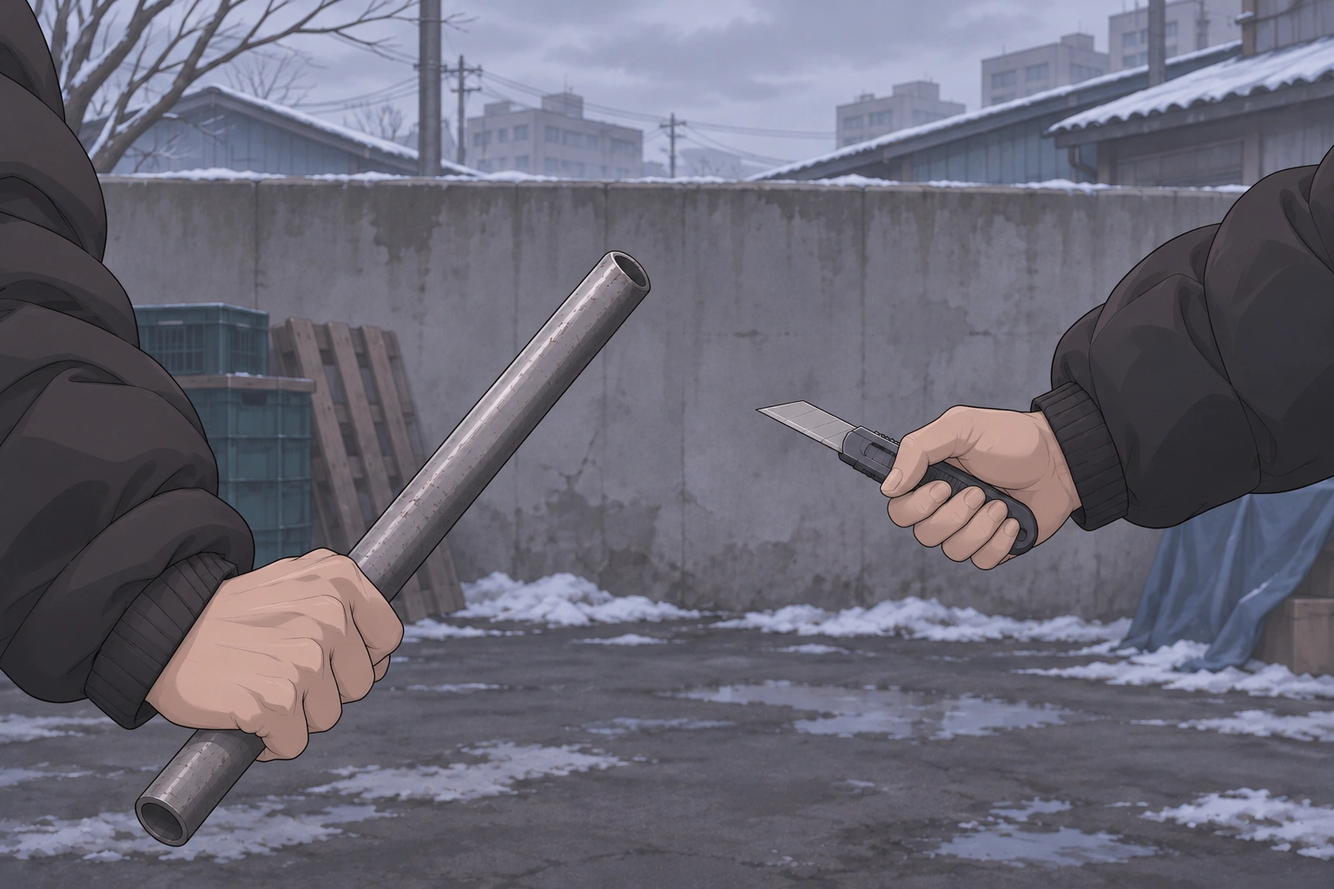
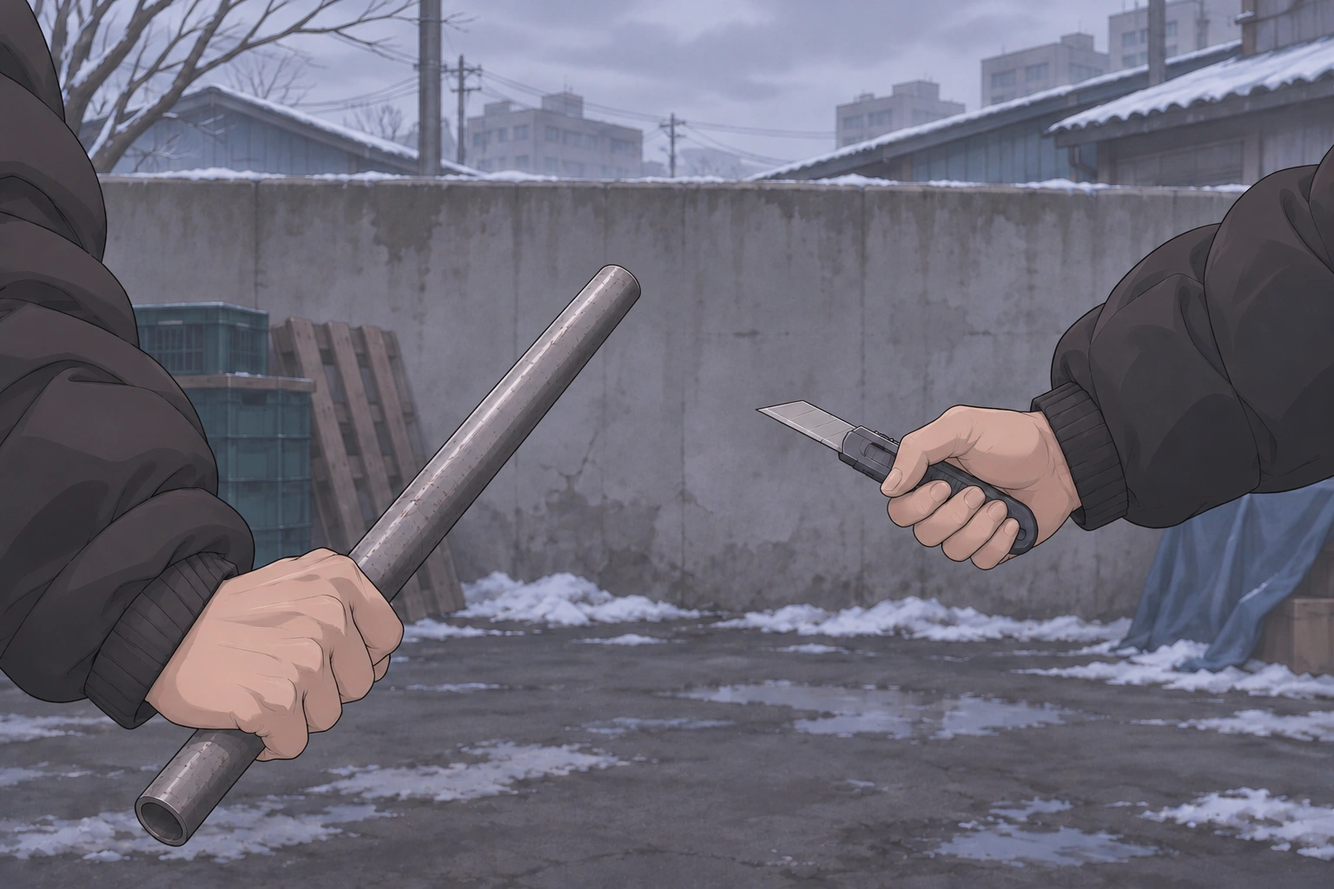
v2.79: [일러스트] 쇠파이프 끝 투시 보정과 이미지 캐시 갱신

Changed region(s): [[0.375, 0.2812, 0.5, 0.4375], [0.3125, 0.4375, 0.375, 0.5312], [0.2812, 0.5312, 0.3125, 0.5938]]

diff --git a/artwork/drafts/2026-11-19/gallery.html b/artwork/drafts/2026-11-19/gallery.html
@@ -1,1 +1,1 @@
-<!doctype html><html lang="ko"><meta charset="utf-8"><meta name="viewport" content="width=device-width"><title>일러스트 검토 후보 128장</title><style>body{background:#101923;color:#eee;font:16px sans-serif;margin:24px}main{display:grid;grid-template-columns:repeat(auto-fit,minmax(280px,1fr));gap:18px}img{width:100%;display:block}article{background:#202d3a;padding:10px}a{color:#aee}p{margin:8px 0}</style><h1>일러스트 검토 후보 128장</h1><p>프롤로그 115장 · 추가 갈래 1장 · 이벤트 12장. 2026-11-19 사용자 지시로 게임에 연결했습니다. 구도·화풍·손가락·모바일 검토 미확인 사항은 검토 기록을 참고하세요.</p><main><article><a href="prologue/ill_1.webp"><img loading="lazy" src="prologue/ill_1.webp"></a><p>ill_1 · 원인 불명</p></article><article><a href="prologue/ill_2.webp"><img loading="lazy" src="prologue/ill_2.webp"></a><p>ill_2 · 7층 격리 병동</p></article><article><a href="prologue/ill_3.webp"><img loading="lazy" src="prologue/ill_3.webp"></a><p>ill_3 · 42도</p></article><article><a href="prologue/ill_4.webp"><img loading="lazy" src="prologue/ill_4.webp"></a><p>ill_4 · 같은 병의 아이</p></article><article><a href="prologue/ill_5.webp"><img loading="lazy" src="prologue/ill_5.webp"></a><p>ill_5 · 퇴원하는 날</p></article><article><a href="prologue/subject_1.webp"><img loading="lazy" src="prologue/subject_1.webp"></a><p>subject_1 · 하얀 방</p></article><article><a href="prologue/subject_2.webp"><img loading="lazy" src="prologue/subject_2.webp"></a><p>subject_2 · 지하 7층</p></article><article><a href="prologue/subject_3.webp"><img loading="lazy" src="prologue/subject_3.webp"></a><p>subject_3 · 13번과의 약속</p></article><article><a href="prologue/subject_8.webp"><img loading="lazy" src="prologue/subject_8.webp"></a><p>subject_8 · 잃어버린 일기장</p></article><article><a href="prologue/student_10.webp"><img loading="lazy" src="prologue/student_10.webp"></a><p>student_10 · 각성 준비반</p></article><article><a href="prologue/idle_1.webp"><img loading="lazy" src="prologue/idle_1.webp"></a><p>idle_1 · 취준 3년 차의 오후</p></article><article><a href="prologue/idle_4.webp"><img loading="lazy" src="prologue/idle_4.webp"></a><p>idle_4 · 퇴사 첫 주</p></article><article><a href="prologue/nap_1.webp"><img loading="lazy" src="prologue/nap_1.webp"></a><p>nap_1 · 낮잠에서 깨어나니</p></article><article><a href="prologue/game_1.webp"><img loading="lazy" src="prologue/game_1.webp"></a><p>game_1 · 부서진 마우스</p></article><article><a href="prologue/game_odd.webp"><img loading="lazy" src="prologue/game_odd.webp"></a><p>game_odd · 그날 이후 이상한 일</p></article><article><a href="prologue/crime_1.webp"><img loading="lazy" src="prologue/crime_1.webp"></a><p>crime_1 · 은행 창구 번호표 47번</p></article><article><a href="prologue/crime_2.webp"><img loading="lazy" src="prologue/crime_2.webp"></a><p>crime_2 · 셔터 안쪽</p></article><article><a href="prologue/crime_3.webp"><img loading="lazy" src="prologue/crime_3.webp"></a><p>crime_3 · 터진 금고</p></article><article><a href="prologue/crime_4.webp"><img loading="lazy" src="prologue/crime_4.webp"></a><p>crime_4 · 진압팀보다 먼저</p></article><article><a href="prologue/dream_4.webp"><img loading="lazy" src="prologue/dream_4.webp"></a><p>dream_4 · 첫 손님</p></article><article><a href="prologue/chaebol_6.webp"><img loading="lazy" src="prologue/chaebol_6.webp"></a><p>chaebol_6 · 재단 봉사</p></article><article><a href="prologue/chaebol_10.webp"><img loading="lazy" src="prologue/chaebol_10.webp"></a><p>chaebol_10 · 창업주의 유언</p></article><article><a href="prologue/orphan_6.webp"><img loading="lazy" src="prologue/orphan_6.webp"></a><p>orphan_6 · 친부모의 소식</p></article><article><a href="prologue/orphan_8.webp"><img loading="lazy" src="prologue/orphan_8.webp"></a><p>orphan_8 · 병원비</p></article><article><a href="prologue/soldier_4.webp"><img loading="lazy" src="prologue/soldier_4.webp"></a><p>soldier_4 · 의무 부사관</p></article><article><a href="prologue/subject_4.webp"><img loading="lazy" src="prologue/subject_4.webp"></a><p>subject_4 · 도와준 연구원</p></article><article><a href="prologue/student_7.webp"><img loading="lazy" src="prologue/student_7.webp"></a><p>student_7 · 간호 실습</p></article><article><a href="prologue/dsleep_2.webp"><img loading="lazy" src="prologue/dsleep_2.webp"></a><p>dsleep_2 · 수면 클리닉</p></article><article><a href="prologue/drug_5.webp"><img loading="lazy" src="prologue/drug_5.webp"></a><p>drug_5 · 블루의 뒤끝</p></article><article><a href="prologue/late_1.webp"><img loading="lazy" src="prologue/late_1.webp"></a><p>late_1 · 국민 에테르 정기 검진</p></article><article><a href="prologue/eve_checkup.webp"><img loading="lazy" src="prologue/eve_checkup.webp"></a><p>eve_checkup · 관리국 의무실</p></article><article><a href="prologue/subject_5.webp"><img loading="lazy" src="prologue/subject_5.webp"></a><p>subject_5 · 위탁 가정</p></article><article><a href="prologue/drug_1.webp"><img loading="lazy" src="prologue/drug_1.webp"></a><p>drug_1 · 파란 캡슐</p></article><article><a href="prologue/friend_1.webp"><img loading="lazy" src="prologue/friend_1.webp"></a><p>friend_1 · 먼저 깨어난 쪽</p></article><article><a href="prologue/idle_7.webp"><img loading="lazy" src="prologue/idle_7.webp"></a><p>idle_7 · 방구석 홈트</p></article><article><a href="prologue/nap_2.webp"><img loading="lazy" src="prologue/nap_2.webp"></a><p>nap_2 · 느긋한 각성자</p></article><article><a href="prologue/nap_odd.webp"><img loading="lazy" src="prologue/nap_odd.webp"></a><p>nap_odd · 그날 이후 이상한 일</p></article><article><a href="prologue/eve_teacher.webp"><img loading="lazy" src="prologue/eve_teacher.webp"></a><p>eve_teacher · 옛 담임의 전화</p></article><article><a href="prologue/late_2.webp"><img loading="lazy" src="prologue/late_2.webp"></a><p>late_2 · 잠재 각성자 판정</p></article><article><a href="prologue/late_5.webp"><img loading="lazy" src="prologue/late_5.webp"></a><p>late_5 · 비고란</p></article><article><a href="prologue/chaebol_5.webp"><img loading="lazy" src="prologue/chaebol_5.webp"></a><p>chaebol_5 · 후계 구도</p></article><article><a href="prologue/friend_5.webp"><img loading="lazy" src="prologue/friend_5.webp"></a><p>friend_5 · 두 사람의 기록</p></article><article><a href="prologue/bloom_2.webp"><img loading="lazy" src="prologue/bloom_2.webp"></a><p>bloom_2 · 늦깎이 등록</p></article><article><a href="prologue/quest_2.webp"><img loading="lazy" src="prologue/quest_2.webp"></a><p>quest_2 · 하루치의 끝</p></article><article><a href="prologue/eve_loan.webp"><img loading="lazy" src="prologue/eve_loan.webp"></a><p>eve_loan · 각성자 대출 창구</p></article><article><a href="prologue/subject_9.webp"><img loading="lazy" src="prologue/subject_9.webp"></a><p>subject_9 · 정기 검진</p></article><article><a href="prologue/student_4.webp"><img loading="lazy" src="prologue/student_4.webp"></a><p>student_4 · 에테르 공학 동아리</p></article><article><a href="prologue/orphan_2.webp"><img loading="lazy" src="prologue/orphan_2.webp"></a><p>orphan_2 · 배달 라이더</p></article><article><a href="prologue/storm_2.webp"><img loading="lazy" src="prologue/storm_2.webp"></a><p>storm_2 · 정전된 도시</p></article><article><a href="prologue/soldier_9.webp"><img loading="lazy" src="prologue/soldier_9.webp"></a><p>soldier_9 · 저격 교관</p></article><article><a href="prologue/wild_1.webp"><img loading="lazy" src="prologue/wild_1.webp"></a><p>wild_1 · 지리산 종주</p></article><article><a href="prologue/wild_4.webp"><img loading="lazy" src="prologue/wild_4.webp"></a><p>wild_4 · 하산</p></article><article><a href="prologue/wild_5.webp"><img loading="lazy" src="prologue/wild_5.webp"></a><p>wild_5 · 닷새 만의 귀환</p></article><article><a href="prologue/idle_14.webp"><img loading="lazy" src="prologue/idle_14.webp"></a><p>idle_14 · 주말 등산</p></article><article><a href="prologue/eve_rooftop.webp"><img loading="lazy" src="prologue/eve_rooftop.webp"></a><p>eve_rooftop · 밤의 뒷산</p></article><article><a href="prologue/late_3.webp"><img loading="lazy" src="prologue/late_3.webp"></a><p>late_3 · 유도 시술실</p></article><article><a href="prologue/idle_2.webp"><img loading="lazy" src="prologue/idle_2.webp"></a><p>idle_2 · 편의점 야간</p></article><article><a href="prologue/cvs_1.webp"><img loading="lazy" src="prologue/cvs_1.webp"></a><p>cvs_1 · 삼각김밥의 다음 날</p></article><article><a href="prologue/cvs_2.webp"><img loading="lazy" src="prologue/cvs_2.webp"></a><p>cvs_2 · 야간 알바 헌터</p></article><article><a href="prologue/student_9.webp"><img loading="lazy" src="prologue/student_9.webp"></a><p>student_9 · 밴드 공연</p></article><article><a href="prologue/friend_2.webp"><img loading="lazy" src="prologue/friend_2.webp"></a><p>friend_2 · 봉쇄선</p></article><article><a href="prologue/dsleep_3.webp"><img loading="lazy" src="prologue/dsleep_3.webp"></a><p>dsleep_3 · 깨어나지 않는 밤</p></article><article><a href="prologue/dream_1.webp"><img loading="lazy" src="prologue/dream_1.webp"></a><p>dream_1 · 같은 꿈</p></article><article><a href="prologue/chaebol_9.webp"><img loading="lazy" src="prologue/chaebol_9.webp"></a><p>chaebol_9 · 압류 딱지</p></article><article><a href="prologue/soldier_6.webp"><img loading="lazy" src="prologue/soldier_6.webp"></a><p>soldier_6 · 경비업체</p></article><article><a href="prologue/soldier_10.webp"><img loading="lazy" src="prologue/soldier_10.webp"></a><p>soldier_10 · 징계</p></article><article><a href="prologue/student_5.webp"><img loading="lazy" src="prologue/student_5.webp"></a><p>student_5 · 복학생</p></article><article><a href="prologue/relic_1.webp"><img loading="lazy" src="prologue/relic_1.webp"></a><p>relic_1 · 벼룩시장</p></article><article><a href="prologue/idle_6.webp"><img loading="lazy" src="prologue/idle_6.webp"></a><p>idle_6 · 치킨집 뒷주방</p></article><article><a href="prologue/eve_dinner.webp"><img loading="lazy" src="prologue/eve_dinner.webp"></a><p>eve_dinner · 등록 전날 저녁</p></article><article><a href="prologue/eve_shop.webp"><img loading="lazy" src="prologue/eve_shop.webp"></a><p>eve_shop · 장비점 대장간 김씨</p></article><article><a href="prologue/eve_line.webp"><img loading="lazy" src="prologue/eve_line.webp"></a><p>eve_line · 봉쇄선 앞</p></article><article><a href="prologue/orphan_7.webp"><img loading="lazy" src="prologue/orphan_7.webp"></a><p>orphan_7 · 태권도장</p></article><article><a href="prologue/late_4.webp"><img loading="lazy" src="prologue/late_4.webp"></a><p>late_4 · 적성 실기</p></article><article><a href="prologue/idle_8.webp"><img loading="lazy" src="prologue/idle_8.webp"></a><p>idle_8 · 서른둘의 동창회</p></article><article><a href="prologue/dream_3.webp"><img loading="lazy" src="prologue/dream_3.webp"></a><p>dream_3 · 굿판</p></article><article><a href="prologue/eve_fortune.webp"><img loading="lazy" src="prologue/eve_fortune.webp"></a><p>eve_fortune · 골목 점집</p></article><article><a href="prologue/dseer_2.webp"><img loading="lazy" src="prologue/dseer_2.webp"></a><p>dseer_2 · 꿈이 먼저 본다</p></article><article><a href="prologue/subject_6.webp"><img loading="lazy" src="prologue/subject_6.webp"></a><p>subject_6 · 감시 요원</p></article><article><a href="prologue/wild_3.webp"><img loading="lazy" src="prologue/wild_3.webp"></a><p>wild_3 · 산신</p></article><article><a href="prologue/tour_4.webp"><img loading="lazy" src="prologue/tour_4.webp"></a><p>tour_4 · 첫 사냥</p></article><article><a href="prologue/tour_5.webp"><img loading="lazy" src="prologue/tour_5.webp"></a><p>tour_5 · 구조 헬기</p></article><article><a href="prologue/nest_3.webp"><img loading="lazy" src="prologue/nest_3.webp"></a><p>nest_3 · 어미</p></article><article><a href="prologue/nest_4.webp"><img loading="lazy" src="prologue/nest_4.webp"></a><p>nest_4 · 짐꾼의 싸움</p></article><article><a href="prologue/nest_5.webp"><img loading="lazy" src="prologue/nest_5.webp"></a><p>nest_5 · 귀환한 짐꾼</p></article><article><a href="prologue/eve_subway.webp"><img loading="lazy" src="prologue/eve_subway.webp"></a><p>eve_subway · 막차</p></article><article><a href="prologue/eve_cat.webp"><img loading="lazy" src="prologue/eve_cat.webp"></a><p>eve_cat · 길고양이 밥 주기</p></article><article><a href="prologue/duel_1.webp"><img loading="lazy" src="prologue/duel_1.webp"></a><p>duel_1 · 보호비</p></article><article><a href="prologue/idle_11.webp"><img loading="lazy" src="prologue/idle_11.webp"></a><p>idle_11 · 장례식장 야간 알바</p></article><article><a href="prologue/idle_13.webp"><img loading="lazy" src="prologue/idle_13.webp"></a><p>idle_13 · 할머니 약초밭</p></article><article><a href="prologue/eve_lastshift.webp"><img loading="lazy" src="prologue/eve_lastshift.webp"></a><p>eve_lastshift · 알바 마지막 날</p></article><article><a href="prologue/eve_run.webp"><img loading="lazy" src="prologue/eve_run.webp"></a><p>eve_run · 강변 새벽 러닝</p></article><article><a href="prologue/eve_secondhand.webp"><img loading="lazy" src="prologue/eve_secondhand.webp"></a><p>eve_secondhand · 중고 거래</p></article><article><a href="prologue/storm_1.webp"><img loading="lazy" src="prologue/storm_1.webp"></a><p>storm_1 · 폭풍 예보</p></article><article><a href="prologue/eve_pcbang.webp"><img loading="lazy" src="prologue/eve_pcbang.webp"></a><p>eve_pcbang · PC방 밤샘</p></article><article><a href="prologue/night_dream.webp"><img loading="lazy" src="prologue/night_dream.webp"></a><p>night_dream · 병실의 밤</p></article><article><a href="prologue/dream_5.webp"><img loading="lazy" src="prologue/dream_5.webp"></a><p>dream_5 · 강 건너의 이름</p></article><article><a href="prologue/relic_3.webp"><img loading="lazy" src="prologue/relic_3.webp"></a><p>relic_3 · 스며들다</p></article><article><a href="prologue/storm_3.webp"><img loading="lazy" src="prologue/storm_3.webp"></a><p>storm_3 · 낙뢰</p></article><article><a href="prologue/crime_5.webp"><img loading="lazy" src="prologue/crime_5.webp"></a><p>crime_5 · 뉴스 속보</p></article><article><a href="prologue/friend_4.webp"><img loading="lazy" src="prologue/friend_4.webp"></a><p>friend_4 · 진압탄</p></article><article><a href="prologue/eve_net.webp"><img loading="lazy" src="prologue/eve_net.webp"></a><p>eve_net · 헌터넷 첫 로그인</p></article><article><a href="prologue/game_2.webp"><img loading="lazy" src="prologue/game_2.webp"></a><p>game_2 · 현실 랭크전</p></article><article><a href="prologue/duel_2.webp"><img loading="lazy" src="prologue/duel_2.webp"></a><p>duel_2 · 공터로 나와</p></article><article><a href="prologue/duel_5.webp"><img loading="lazy" src="prologue/duel_5.webp"></a><p>duel_5 · 공터의 소문</p></article><article><a href="prologue/drug_3.webp"><img loading="lazy" src="prologue/drug_3.webp"></a><p>drug_3 · 깨진 캡슐</p></article><article><a href="prologue/drug_4.webp"><img loading="lazy" src="prologue/drug_4.webp"></a><p>drug_4 · 조직의 문</p></article><article><a href="prologue/bloom_1.webp"><img loading="lazy" src="prologue/bloom_1.webp"></a><p>bloom_1 · 서른둘의 밤 · 귀갓길</p></article><article><a href="prologue/cvs_odd.webp"><img loading="lazy" src="prologue/cvs_odd.webp"></a><p>cvs_odd · 그날 이후 이상한 일 · 편의점</p></article><article><a href="prologue/bloom_odd.webp"><img loading="lazy" src="prologue/bloom_odd.webp"></a><p>bloom_odd · 그날 이후 이상한 일 · 늦깎이</p></article><article><a href="prologue/quest_odd.webp"><img loading="lazy" src="prologue/quest_odd.webp"></a><p>quest_odd · 그날 이후 이상한 일 · 하루치</p></article><article><a href="prologue/relic_5.webp"><img loading="lazy" src="prologue/relic_5.webp"></a><p>relic_5 · 구슬의 유언</p></article><article><a href="prologue/duel_3.webp"><img loading="lazy" src="prologue/duel_3.webp"></a><p>duel_3 · 세 번째 주먹</p></article><article><a href="prologue/duel_4.webp"><img loading="lazy" src="prologue/duel_4.webp"></a><p>duel_4 · 흑사회 셋</p></article><article><a href="prologue/dseer_3.webp"><img loading="lazy" src="prologue/dseer_3.webp"></a><p>dseer_3 · 꿈과 같은 시각</p></article><article><a href="variants/bloom_1__karaoke.webp"><img loading="lazy" src="variants/bloom_1__karaoke.webp"></a><p>bloom_1__karaoke · 서른둘의 밤 · 노래방</p></article><article><a href="events/guild_contract.webp"><img loading="lazy" src="events/guild_contract.webp"></a><p>guild_contract · 소속 가입 계약 확인</p></article><article><a href="events/exam_registration.webp"><img loading="lazy" src="events/exam_registration.webp"></a><p>exam_registration · 헌터 시험 접수</p></article><article><a href="events/gate_briefing.webp"><img loading="lazy" src="events/gate_briefing.webp"></a><p>gate_briefing · 게이트 진입 브리핑</p></article><article><a href="events/city_hospital.webp"><img loading="lazy" src="events/city_hospital.webp"></a><p>city_hospital · 헌터 전문 병원</p></article><article><a href="events/rank_c_scout.webp"><img loading="lazy" src="events/rank_c_scout.webp"></a><p>rank_c_scout · 길드 스카우트</p></article><article><a href="events/reg_busan_market.webp"><img loading="lazy" src="events/reg_busan_market.webp"></a><p>reg_busan_market · 부산 항구 야시장</p></article><article><a href="events/road_merchant.webp"><img loading="lazy" src="events/road_merchant.webp"></a><p>road_merchant · 길가 행상 트럭</p></article><article><a href="events/road_storm.webp"><img loading="lazy" src="events/road_storm.webp"></a><p>road_storm · 다가오는 에테르 폭풍</p></article><article><a href="events/road_camp.webp"><img loading="lazy" src="events/road_camp.webp"></a><p>road_camp · 헌터 야영 모닥불</p></article><article><a href="events/road_wreck.webp"><img loading="lazy" src="events/road_wreck.webp"></a><p>road_wreck · 버려진 협회 장갑차</p></article><article><a href="events/road_checkpoint.webp"><img loading="lazy" src="events/road_checkpoint.webp"></a><p>road_checkpoint · 사설 길목 검문</p></article><article><a href="events/road_signal.webp"><img loading="lazy" src="events/road_signal.webp"></a><p>road_signal · 잡음 속 구조 신호</p></article></main></html>
+<!doctype html><html lang="ko"><meta charset="utf-8"><meta name="viewport" content="width=device-width"><title>일러스트 검토 후보 128장</title><style>body{background:#101923;color:#eee;font:16px sans-serif;margin:24px}main{display:grid;grid-template-columns:repeat(auto-fit,minmax(280px,1fr));gap:18px}img{width:100%;display:block}article{background:#202d3a;padding:10px}a{color:#aee}p{margin:8px 0}</style><h1>일러스트 검토 후보 128장</h1><p>프롤로그 115장 · 추가 갈래 1장 · 이벤트 12장. 2026-11-19 사용자 지시로 게임에 연결했습니다. 구도·화풍·손가락·모바일 검토 미확인 사항은 검토 기록을 참고하세요.</p><main><article><a href="prologue/ill_1.webp"><img loading="lazy" src="prologue/ill_1.webp"></a><p>ill_1 · 원인 불명</p></article><article><a href="prologue/ill_2.webp"><img loading="lazy" src="prologue/ill_2.webp"></a><p>ill_2 · 7층 격리 병동</p></article><article><a href="prologue/ill_3.webp"><img loading="lazy" src="prologue/ill_3.webp"></a><p>ill_3 · 42도</p></article><article><a href="prologue/ill_4.webp"><img loading="lazy" src="prologue/ill_4.webp"></a><p>ill_4 · 같은 병의 아이</p></article><article><a href="prologue/ill_5.webp"><img loading="lazy" src="prologue/ill_5.webp"></a><p>ill_5 · 퇴원하는 날</p></article><article><a href="prologue/subject_1.webp"><img loading="lazy" src="prologue/subject_1.webp"></a><p>subject_1 · 하얀 방</p></article><article><a href="prologue/subject_2.webp"><img loading="lazy" src="prologue/subject_2.webp"></a><p>subject_2 · 지하 7층</p></article><article><a href="prologue/subject_3.webp"><img loading="lazy" src="prologue/subject_3.webp"></a><p>subject_3 · 13번과의 약속</p></article><article><a href="prologue/subject_8.webp"><img loading="lazy" src="prologue/subject_8.webp"></a><p>subject_8 · 잃어버린 일기장</p></article><article><a href="prologue/student_10.webp"><img loading="lazy" src="prologue/student_10.webp"></a><p>student_10 · 각성 준비반</p></article><article><a href="prologue/idle_1.webp"><img loading="lazy" src="prologue/idle_1.webp"></a><p>idle_1 · 취준 3년 차의 오후</p></article><article><a href="prologue/idle_4.webp"><img loading="lazy" src="prologue/idle_4.webp"></a><p>idle_4 · 퇴사 첫 주</p></article><article><a href="prologue/nap_1.webp"><img loading="lazy" src="prologue/nap_1.webp"></a><p>nap_1 · 낮잠에서 깨어나니</p></article><article><a href="prologue/game_1.webp"><img loading="lazy" src="prologue/game_1.webp"></a><p>game_1 · 부서진 마우스</p></article><article><a href="prologue/game_odd.webp"><img loading="lazy" src="prologue/game_odd.webp"></a><p>game_odd · 그날 이후 이상한 일</p></article><article><a href="prologue/crime_1.webp"><img loading="lazy" src="prologue/crime_1.webp"></a><p>crime_1 · 은행 창구 번호표 47번</p></article><article><a href="prologue/crime_2.webp"><img loading="lazy" src="prologue/crime_2.webp"></a><p>crime_2 · 셔터 안쪽</p></article><article><a href="prologue/crime_3.webp"><img loading="lazy" src="prologue/crime_3.webp"></a><p>crime_3 · 터진 금고</p></article><article><a href="prologue/crime_4.webp"><img loading="lazy" src="prologue/crime_4.webp"></a><p>crime_4 · 진압팀보다 먼저</p></article><article><a href="prologue/dream_4.webp"><img loading="lazy" src="prologue/dream_4.webp"></a><p>dream_4 · 첫 손님</p></article><article><a href="prologue/chaebol_6.webp"><img loading="lazy" src="prologue/chaebol_6.webp"></a><p>chaebol_6 · 재단 봉사</p></article><article><a href="prologue/chaebol_10.webp"><img loading="lazy" src="prologue/chaebol_10.webp"></a><p>chaebol_10 · 창업주의 유언</p></article><article><a href="prologue/orphan_6.webp"><img loading="lazy" src="prologue/orphan_6.webp"></a><p>orphan_6 · 친부모의 소식</p></article><article><a href="prologue/orphan_8.webp"><img loading="lazy" src="prologue/orphan_8.webp"></a><p>orphan_8 · 병원비</p></article><article><a href="prologue/soldier_4.webp"><img loading="lazy" src="prologue/soldier_4.webp"></a><p>soldier_4 · 의무 부사관</p></article><article><a href="prologue/subject_4.webp"><img loading="lazy" src="prologue/subject_4.webp"></a><p>subject_4 · 도와준 연구원</p></article><article><a href="prologue/student_7.webp"><img loading="lazy" src="prologue/student_7.webp"></a><p>student_7 · 간호 실습</p></article><article><a href="prologue/dsleep_2.webp"><img loading="lazy" src="prologue/dsleep_2.webp"></a><p>dsleep_2 · 수면 클리닉</p></article><article><a href="prologue/drug_5.webp"><img loading="lazy" src="prologue/drug_5.webp"></a><p>drug_5 · 블루의 뒤끝</p></article><article><a href="prologue/late_1.webp"><img loading="lazy" src="prologue/late_1.webp"></a><p>late_1 · 국민 에테르 정기 검진</p></article><article><a href="prologue/eve_checkup.webp"><img loading="lazy" src="prologue/eve_checkup.webp"></a><p>eve_checkup · 관리국 의무실</p></article><article><a href="prologue/subject_5.webp"><img loading="lazy" src="prologue/subject_5.webp"></a><p>subject_5 · 위탁 가정</p></article><article><a href="prologue/drug_1.webp"><img loading="lazy" src="prologue/drug_1.webp"></a><p>drug_1 · 파란 캡슐</p></article><article><a href="prologue/friend_1.webp"><img loading="lazy" src="prologue/friend_1.webp"></a><p>friend_1 · 먼저 깨어난 쪽</p></article><article><a href="prologue/idle_7.webp"><img loading="lazy" src="prologue/idle_7.webp"></a><p>idle_7 · 방구석 홈트</p></article><article><a href="prologue/nap_2.webp"><img loading="lazy" src="prologue/nap_2.webp"></a><p>nap_2 · 느긋한 각성자</p></article><article><a href="prologue/nap_odd.webp"><img loading="lazy" src="prologue/nap_odd.webp"></a><p>nap_odd · 그날 이후 이상한 일</p></article><article><a href="prologue/eve_teacher.webp"><img loading="lazy" src="prologue/eve_teacher.webp"></a><p>eve_teacher · 옛 담임의 전화</p></article><article><a href="prologue/late_2.webp"><img loading="lazy" src="prologue/late_2.webp"></a><p>late_2 · 잠재 각성자 판정</p></article><article><a href="prologue/late_5.webp"><img loading="lazy" src="prologue/late_5.webp"></a><p>late_5 · 비고란</p></article><article><a href="prologue/chaebol_5.webp"><img loading="lazy" src="prologue/chaebol_5.webp"></a><p>chaebol_5 · 후계 구도</p></article><article><a href="prologue/friend_5.webp"><img loading="lazy" src="prologue/friend_5.webp"></a><p>friend_5 · 두 사람의 기록</p></article><article><a href="prologue/bloom_2.webp"><img loading="lazy" src="prologue/bloom_2.webp"></a><p>bloom_2 · 늦깎이 등록</p></article><article><a href="prologue/quest_2.webp"><img loading="lazy" src="prologue/quest_2.webp"></a><p>quest_2 · 하루치의 끝</p></article><article><a href="prologue/eve_loan.webp"><img loading="lazy" src="prologue/eve_loan.webp"></a><p>eve_loan · 각성자 대출 창구</p></article><article><a href="prologue/subject_9.webp"><img loading="lazy" src="prologue/subject_9.webp"></a><p>subject_9 · 정기 검진</p></article><article><a href="prologue/student_4.webp"><img loading="lazy" src="prologue/student_4.webp"></a><p>student_4 · 에테르 공학 동아리</p></article><article><a href="prologue/orphan_2.webp"><img loading="lazy" src="prologue/orphan_2.webp"></a><p>orphan_2 · 배달 라이더</p></article><article><a href="prologue/storm_2.webp"><img loading="lazy" src="prologue/storm_2.webp"></a><p>storm_2 · 정전된 도시</p></article><article><a href="prologue/soldier_9.webp"><img loading="lazy" src="prologue/soldier_9.webp"></a><p>soldier_9 · 저격 교관</p></article><article><a href="prologue/wild_1.webp"><img loading="lazy" src="prologue/wild_1.webp"></a><p>wild_1 · 지리산 종주</p></article><article><a href="prologue/wild_4.webp"><img loading="lazy" src="prologue/wild_4.webp"></a><p>wild_4 · 하산</p></article><article><a href="prologue/wild_5.webp"><img loading="lazy" src="prologue/wild_5.webp"></a><p>wild_5 · 닷새 만의 귀환</p></article><article><a href="prologue/idle_14.webp"><img loading="lazy" src="prologue/idle_14.webp"></a><p>idle_14 · 주말 등산</p></article><article><a href="prologue/eve_rooftop.webp"><img loading="lazy" src="prologue/eve_rooftop.webp"></a><p>eve_rooftop · 밤의 뒷산</p></article><article><a href="prologue/late_3.webp"><img loading="lazy" src="prologue/late_3.webp"></a><p>late_3 · 유도 시술실</p></article><article><a href="prologue/idle_2.webp"><img loading="lazy" src="prologue/idle_2.webp"></a><p>idle_2 · 편의점 야간</p></article><article><a href="prologue/cvs_1.webp"><img loading="lazy" src="prologue/cvs_1.webp"></a><p>cvs_1 · 삼각김밥의 다음 날</p></article><article><a href="prologue/cvs_2.webp"><img loading="lazy" src="prologue/cvs_2.webp"></a><p>cvs_2 · 야간 알바 헌터</p></article><article><a href="prologue/student_9.webp"><img loading="lazy" src="prologue/student_9.webp"></a><p>student_9 · 밴드 공연</p></article><article><a href="prologue/friend_2.webp"><img loading="lazy" src="prologue/friend_2.webp"></a><p>friend_2 · 봉쇄선</p></article><article><a href="prologue/dsleep_3.webp"><img loading="lazy" src="prologue/dsleep_3.webp"></a><p>dsleep_3 · 깨어나지 않는 밤</p></article><article><a href="prologue/dream_1.webp"><img loading="lazy" src="prologue/dream_1.webp"></a><p>dream_1 · 같은 꿈</p></article><article><a href="prologue/chaebol_9.webp"><img loading="lazy" src="prologue/chaebol_9.webp"></a><p>chaebol_9 · 압류 딱지</p></article><article><a href="prologue/soldier_6.webp"><img loading="lazy" src="prologue/soldier_6.webp"></a><p>soldier_6 · 경비업체</p></article><article><a href="prologue/soldier_10.webp"><img loading="lazy" src="prologue/soldier_10.webp"></a><p>soldier_10 · 징계</p></article><article><a href="prologue/student_5.webp"><img loading="lazy" src="prologue/student_5.webp"></a><p>student_5 · 복학생</p></article><article><a href="prologue/relic_1.webp"><img loading="lazy" src="prologue/relic_1.webp"></a><p>relic_1 · 벼룩시장</p></article><article><a href="prologue/idle_6.webp"><img loading="lazy" src="prologue/idle_6.webp"></a><p>idle_6 · 치킨집 뒷주방</p></article><article><a href="prologue/eve_dinner.webp"><img loading="lazy" src="prologue/eve_dinner.webp"></a><p>eve_dinner · 등록 전날 저녁</p></article><article><a href="prologue/eve_shop.webp"><img loading="lazy" src="prologue/eve_shop.webp"></a><p>eve_shop · 장비점 대장간 김씨</p></article><article><a href="prologue/eve_line.webp"><img loading="lazy" src="prologue/eve_line.webp"></a><p>eve_line · 봉쇄선 앞</p></article><article><a href="prologue/orphan_7.webp"><img loading="lazy" src="prologue/orphan_7.webp"></a><p>orphan_7 · 태권도장</p></article><article><a href="prologue/late_4.webp"><img loading="lazy" src="prologue/late_4.webp"></a><p>late_4 · 적성 실기</p></article><article><a href="prologue/idle_8.webp"><img loading="lazy" src="prologue/idle_8.webp"></a><p>idle_8 · 서른둘의 동창회</p></article><article><a href="prologue/dream_3.webp"><img loading="lazy" src="prologue/dream_3.webp"></a><p>dream_3 · 굿판</p></article><article><a href="prologue/eve_fortune.webp"><img loading="lazy" src="prologue/eve_fortune.webp"></a><p>eve_fortune · 골목 점집</p></article><article><a href="prologue/dseer_2.webp"><img loading="lazy" src="prologue/dseer_2.webp"></a><p>dseer_2 · 꿈이 먼저 본다</p></article><article><a href="prologue/subject_6.webp"><img loading="lazy" src="prologue/subject_6.webp"></a><p>subject_6 · 감시 요원</p></article><article><a href="prologue/wild_3.webp"><img loading="lazy" src="prologue/wild_3.webp"></a><p>wild_3 · 산신</p></article><article><a href="prologue/tour_4.webp"><img loading="lazy" src="prologue/tour_4.webp"></a><p>tour_4 · 첫 사냥</p></article><article><a href="prologue/tour_5.webp"><img loading="lazy" src="prologue/tour_5.webp"></a><p>tour_5 · 구조 헬기</p></article><article><a href="prologue/nest_3.webp"><img loading="lazy" src="prologue/nest_3.webp"></a><p>nest_3 · 어미</p></article><article><a href="prologue/nest_4.webp"><img loading="lazy" src="prologue/nest_4.webp"></a><p>nest_4 · 짐꾼의 싸움</p></article><article><a href="prologue/nest_5.webp"><img loading="lazy" src="prologue/nest_5.webp"></a><p>nest_5 · 귀환한 짐꾼</p></article><article><a href="prologue/eve_subway.webp"><img loading="lazy" src="prologue/eve_subway.webp"></a><p>eve_subway · 막차</p></article><article><a href="prologue/eve_cat.webp"><img loading="lazy" src="prologue/eve_cat.webp"></a><p>eve_cat · 길고양이 밥 주기</p></article><article><a href="prologue/duel_1.webp"><img loading="lazy" src="prologue/duel_1.webp"></a><p>duel_1 · 보호비</p></article><article><a href="prologue/idle_11.webp"><img loading="lazy" src="prologue/idle_11.webp"></a><p>idle_11 · 장례식장 야간 알바</p></article><article><a href="prologue/idle_13.webp"><img loading="lazy" src="prologue/idle_13.webp"></a><p>idle_13 · 할머니 약초밭</p></article><article><a href="prologue/eve_lastshift.webp"><img loading="lazy" src="prologue/eve_lastshift.webp"></a><p>eve_lastshift · 알바 마지막 날</p></article><article><a href="prologue/eve_run.webp"><img loading="lazy" src="prologue/eve_run.webp"></a><p>eve_run · 강변 새벽 러닝</p></article><article><a href="prologue/eve_secondhand.webp"><img loading="lazy" src="prologue/eve_secondhand.webp"></a><p>eve_secondhand · 중고 거래</p></article><article><a href="prologue/storm_1.webp"><img loading="lazy" src="prologue/storm_1.webp"></a><p>storm_1 · 폭풍 예보</p></article><article><a href="prologue/eve_pcbang.webp"><img loading="lazy" src="prologue/eve_pcbang.webp"></a><p>eve_pcbang · PC방 밤샘</p></article><article><a href="prologue/night_dream.webp"><img loading="lazy" src="prologue/night_dream.webp"></a><p>night_dream · 병실의 밤</p></article><article><a href="prologue/dream_5.webp"><img loading="lazy" src="prologue/dream_5.webp"></a><p>dream_5 · 강 건너의 이름</p></article><article><a href="prologue/relic_3.webp"><img loading="lazy" src="prologue/relic_3.webp"></a><p>relic_3 · 스며들다</p></article><article><a href="prologue/storm_3.webp"><img loading="lazy" src="prologue/storm_3.webp"></a><p>storm_3 · 낙뢰</p></article><article><a href="prologue/crime_5.webp"><img loading="lazy" src="prologue/crime_5.webp"></a><p>crime_5 · 뉴스 속보</p></article><article><a href="prologue/friend_4.webp"><img loading="lazy" src="prologue/friend_4.webp"></a><p>friend_4 · 진압탄</p></article><article><a href="prologue/eve_net.webp"><img loading="lazy" src="prologue/eve_net.webp"></a><p>eve_net · 헌터넷 첫 로그인</p></article><article><a href="prologue/game_2.webp"><img loading="lazy" src="prologue/game_2.webp"></a><p>game_2 · 현실 랭크전</p></article><article><a href="prologue/duel_2.webp"><img loading="lazy" src="prologue/duel_2.webp"></a><p>duel_2 · 공터로 나와</p></article><article><a href="prologue/duel_5.webp"><img loading="lazy" src="prologue/duel_5.webp"></a><p>duel_5 · 공터의 소문</p></article><article><a href="prologue/drug_3.webp"><img loading="lazy" src="prologue/drug_3.webp"></a><p>drug_3 · 깨진 캡슐</p></article><article><a href="prologue/drug_4.webp"><img loading="lazy" src="prologue/drug_4.webp"></a><p>drug_4 · 조직의 문</p></article><article><a href="prologue/bloom_1.webp"><img loading="lazy" src="prologue/bloom_1.webp"></a><p>bloom_1 · 서른둘의 밤 · 귀갓길</p></article><article><a href="prologue/cvs_odd.webp"><img loading="lazy" src="prologue/cvs_odd.webp"></a><p>cvs_odd · 그날 이후 이상한 일 · 편의점</p></article><article><a href="prologue/bloom_odd.webp"><img loading="lazy" src="prologue/bloom_odd.webp"></a><p>bloom_odd · 그날 이후 이상한 일 · 늦깎이</p></article><article><a href="prologue/quest_odd.webp"><img loading="lazy" src="prologue/quest_odd.webp"></a><p>quest_odd · 그날 이후 이상한 일 · 하루치</p></article><article><a href="prologue/relic_5.webp"><img loading="lazy" src="prologue/relic_5.webp"></a><p>relic_5 · 구슬의 유언</p></article><article><a href="prologue/duel_3.webp"><img loading="lazy" src="prologue/duel_3.webp"></a><p>duel_3 · 세 번째 주먹</p></article><article><a href="prologue/duel_4.webp?v=pipe-1"><img loading="lazy" src="prologue/duel_4.webp?v=pipe-1"></a><p>duel_4 · 흑사회 셋</p></article><article><a href="prologue/dseer_3.webp"><img loading="lazy" src="prologue/dseer_3.webp"></a><p>dseer_3 · 꿈과 같은 시각</p></article><article><a href="variants/bloom_1__karaoke.webp"><img loading="lazy" src="variants/bloom_1__karaoke.webp"></a><p>bloom_1__karaoke · 서른둘의 밤 · 노래방</p></article><article><a href="events/guild_contract.webp"><img loading="lazy" src="events/guild_contract.webp"></a><p>guild_contract · 소속 가입 계약 확인</p></article><article><a href="events/exam_registration.webp"><img loading="lazy" src="events/exam_registration.webp"></a><p>exam_registration · 헌터 시험 접수</p></article><article><a href="events/gate_briefing.webp"><img loading="lazy" src="events/gate_briefing.webp"></a><p>gate_briefing · 게이트 진입 브리핑</p></article><article><a href="events/city_hospital.webp"><img loading="lazy" src="events/city_hospital.webp"></a><p>city_hospital · 헌터 전문 병원</p></article><article><a href="events/rank_c_scout.webp"><img loading="lazy" src="events/rank_c_scout.webp"></a><p>rank_c_scout · 길드 스카우트</p></article><article><a href="events/reg_busan_market.webp"><img loading="lazy" src="events/reg_busan_market.webp"></a><p>reg_busan_market · 부산 항구 야시장</p></article><article><a href="events/road_merchant.webp"><img loading="lazy" src="events/road_merchant.webp"></a><p>road_merchant · 길가 행상 트럭</p></article><article><a href="events/road_storm.webp"><img loading="lazy" src="events/road_storm.webp"></a><p>road_storm · 다가오는 에테르 폭풍</p></article><article><a href="events/road_camp.webp"><img loading="lazy" src="events/road_camp.webp"></a><p>road_camp · 헌터 야영 모닥불</p></article><article><a href="events/road_wreck.webp"><img loading="lazy" src="events/road_wreck.webp"></a><p>road_wreck · 버려진 협회 장갑차</p></article><article><a href="events/road_checkpoint.webp"><img loading="lazy" src="events/road_checkpoint.webp"></a><p>road_checkpoint · 사설 길목 검문</p></article><article><a href="events/road_signal.webp"><img loading="lazy" src="events/road_signal.webp"></a><p>road_signal · 잡음 속 구조 신호</p></article></main></html>

diff --git a/index.html b/index.html
@@ -13,7 +13,7 @@
   <link rel="preconnect" href="https://fonts.gstatic.com" crossorigin>
   <link rel="preload" as="image" href="assets/backgrounds/opening-omen.webp" fetchpriority="high">
   <link id="game-fonts" data-href="https://fonts.googleapis.com/css2?family=Black+Han+Sans&family=Chakra+Petch:wght@500;600;700&family=IBM+Plex+Sans+KR:wght@400;500;700&display=swap">
-  <link rel="stylesheet" href="dist/boot.css?v=s2.2.78">
+  <link rel="stylesheet" href="dist/boot.css?v=s2.2.79">
 </head>
 <body>
   <div id="app"><div class="title-screen"><img class="title-art" data-src="assets/backgrounds/title-gate.webp" alt="" aria-hidden="true" decoding="async"><div class="title-inner">
@@ -36,6 +36,6 @@
       document.body.appendChild(d);
     });
   </script>
-  <script defer src="dist/boot.js?v=s2.2.78" data-game="dist/game.js?v=s2.2.78" data-style="dist/style.css?v=s2.2.78"></script>
+  <script defer src="dist/boot.js?v=s2.2.79" data-game="dist/game.js?v=s2.2.79" data-style="dist/style.css?v=s2.2.79"></script>
 </body>
 </html>

diff --git a/js/prologue_cutscene.js b/js/prologue_cutscene.js
@@ -220,7 +220,7 @@ const PrologueCinema = (() => {
   const art = (id, state, step = 0) => {
     const image = imageFor(id, state); if (!image) return '';
     const title = PROLOGUE[id] ? PROLOGUE[id].title : '';
-    return `<img class="ec-art pc-art pc-shot-${step}" src="assets/prologue/${image}.webp" width="1536" height="1024" alt="${escapeAttribute(title)} 장면" decoding="async" fetchpriority="high" draggable="false">`;
+    return `<img class="ec-art pc-art pc-shot-${step}" src="assets/prologue/${image}.webp${image === 'scene-duel_4' ? '?v=pipe-1' : ''}" width="1536" height="1024" alt="${escapeAttribute(title)} 장면" decoding="async" fetchpriority="high" draggable="false">`;
   };
   // 그림은 본문·선택지와 함께 한 화면에 정지 이미지로만 보인다 (사용자 요청: 화면을 가리고 눌러 넘기는 컷씬식 연출은 없앰)
   const mount = (state) => {

diff --git a/js/data.js b/js/data.js
@@ -1,5 +1,5 @@
 // 게임 버전 (화면 오른쪽 아래에 표시)
-const GAME_VERSION = '2.78';
+const GAME_VERSION = '2.79';
 
 // ===== 게이트 크로니클: 데이터 정의 =====
 // 귀곡팔황의 "경지"를 각성 등급으로, "오행"을 에테르 속성으로 옮겼다.

diff --git a/docs/일러스트_추가제작_진행.md b/docs/일러스트_추가제작_진행.md
@@ -28,3 +28,7 @@
 - 이벤트 매핑11개와 입장 브리핑 컷 경로 확인, 새 실행 이미지128장이 보관본과 바이트 단위로 같은지 확인.
 - 변경 JS6개 구문 검사, 빌드 통과. 실제 프롤로그 mount와 이벤트 렌더러의 독립 구성 요소 미리보기에서390·1280px 이미지8개 로드·가로 넘침 없음 확인.
 - 이 확인은 전체 게임 플레이나 스모크 테스트가 아니다.
+
+## 파이프 투시 보정 (v2.79)
+
+`duel_4` 먼 쪽 파이프 끝의 구멍이 보이던 투시 오류를 수정했다. 앞서 수정한 오른손 다섯 손가락을 유지하며 실행본·보관본을 함께 갱신했다. 해당 이미지 캐시를 갱신한다. 스모크 테스트는 실행하지 않았다.
